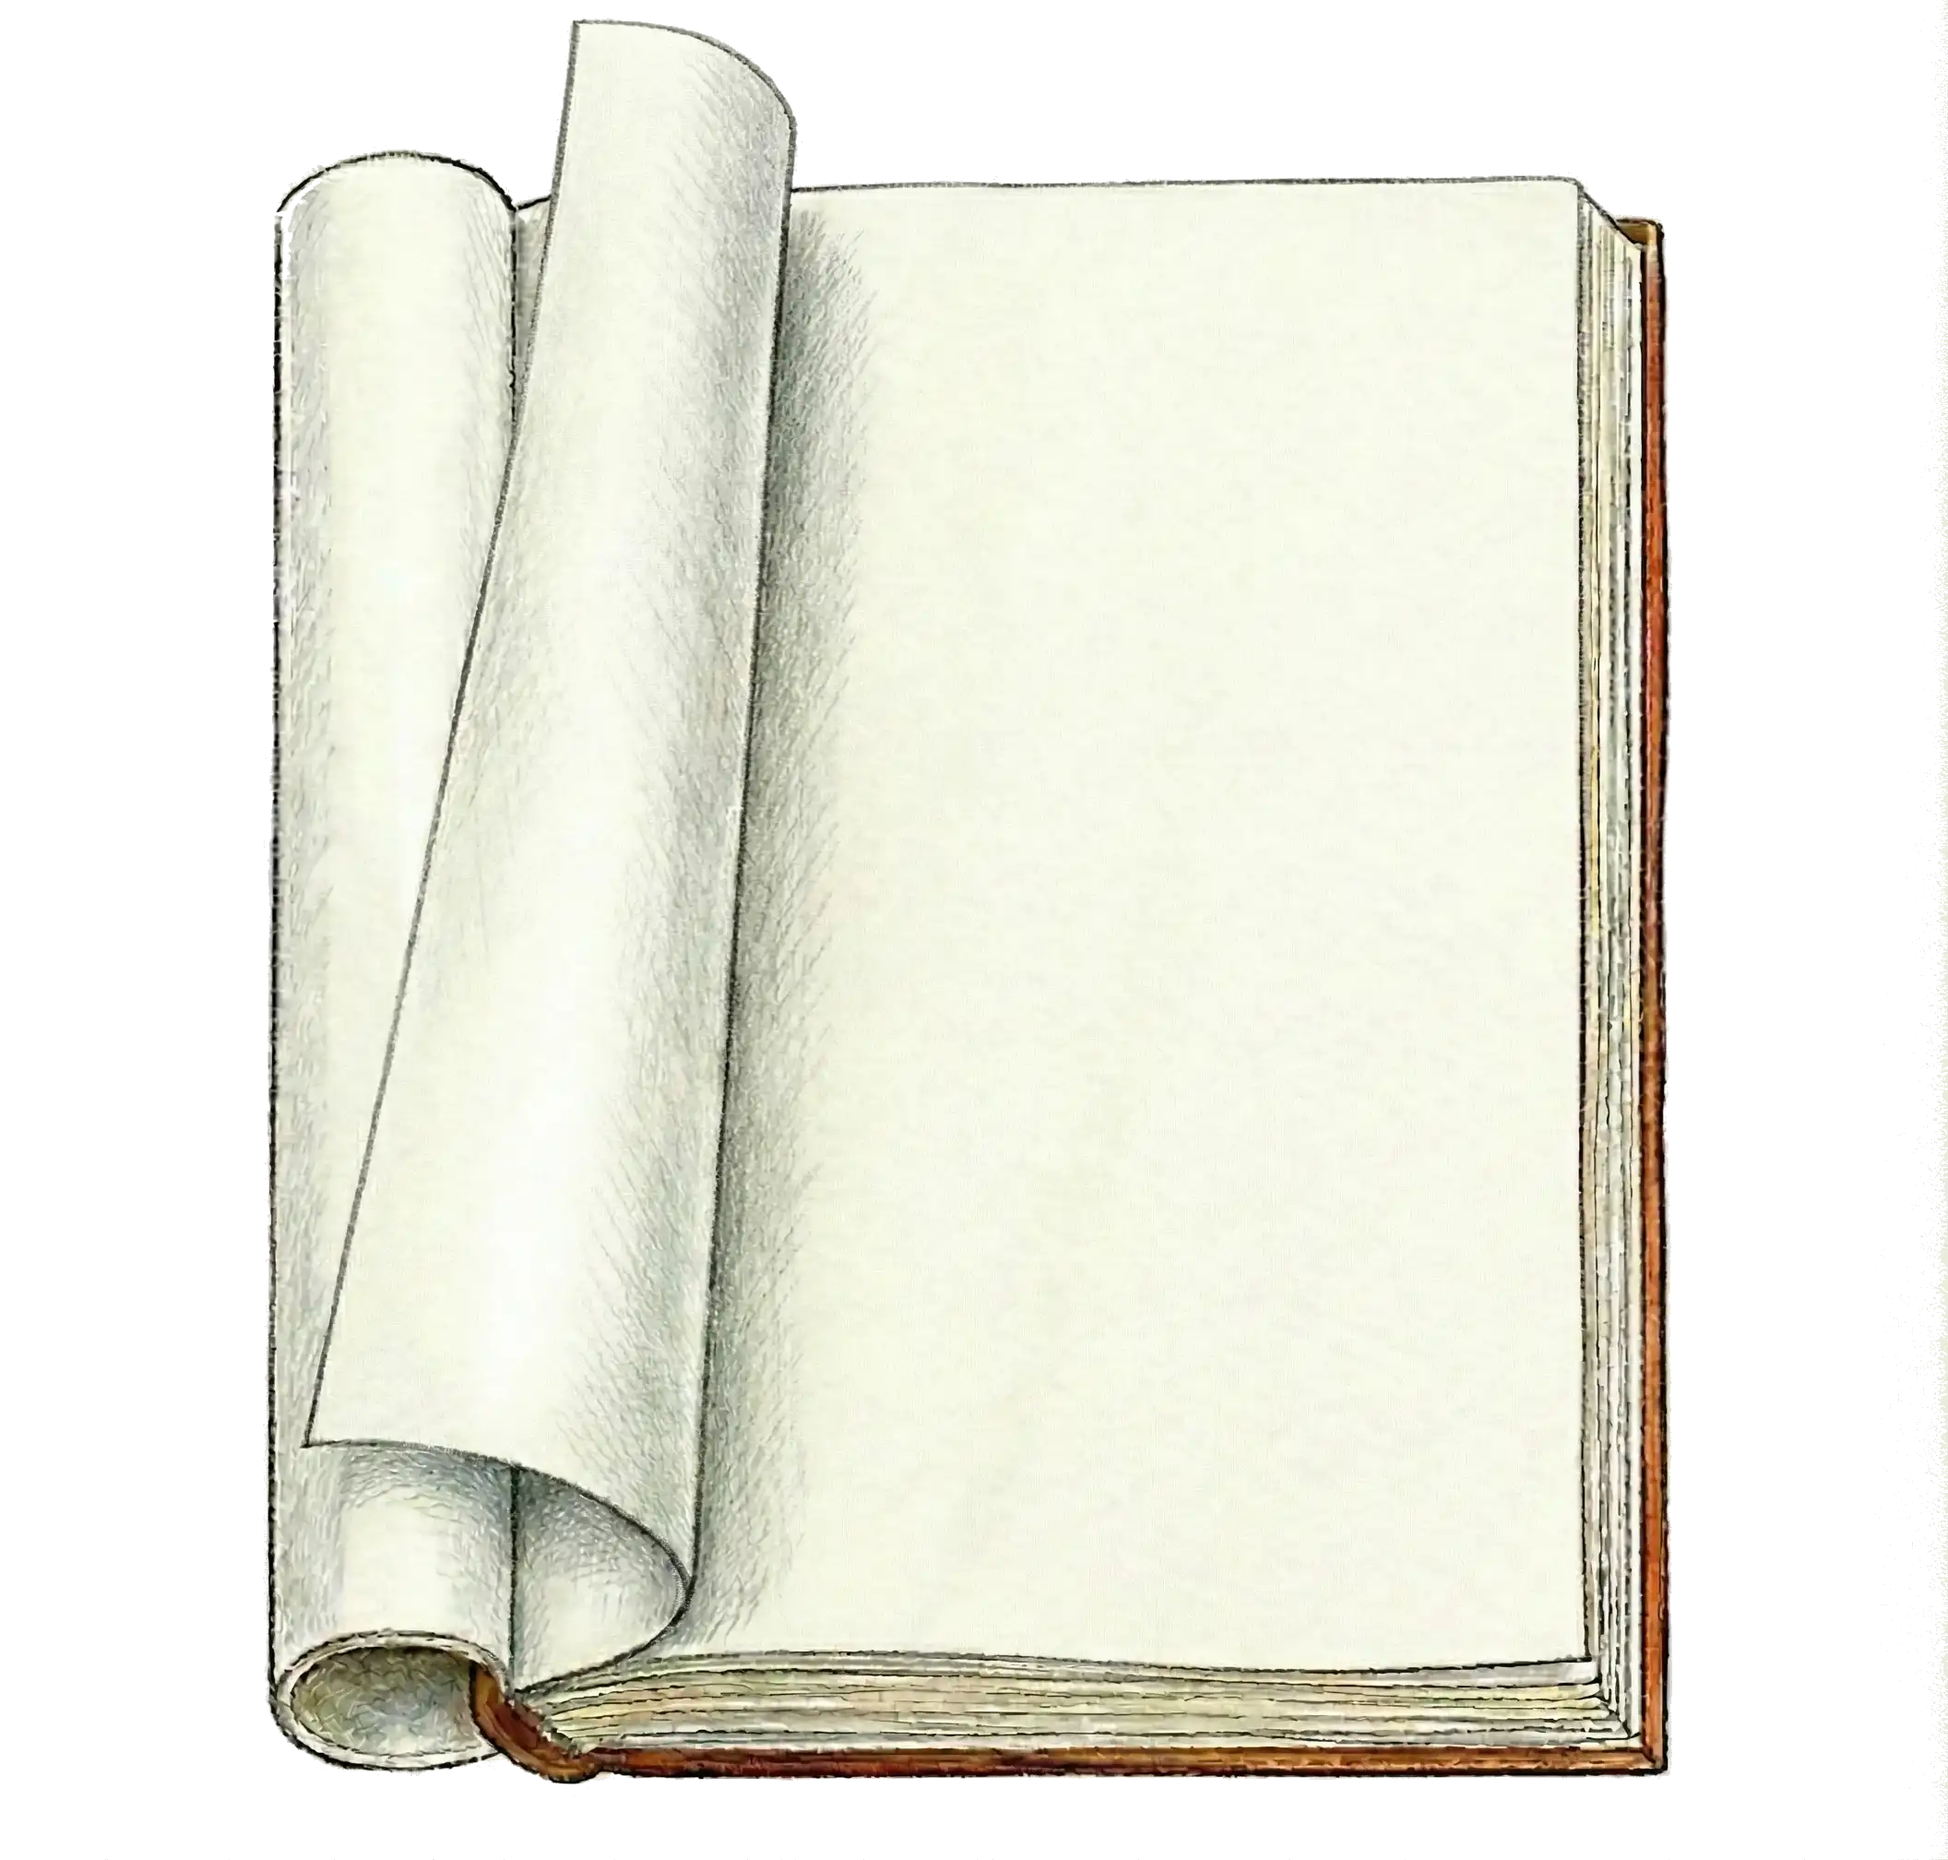
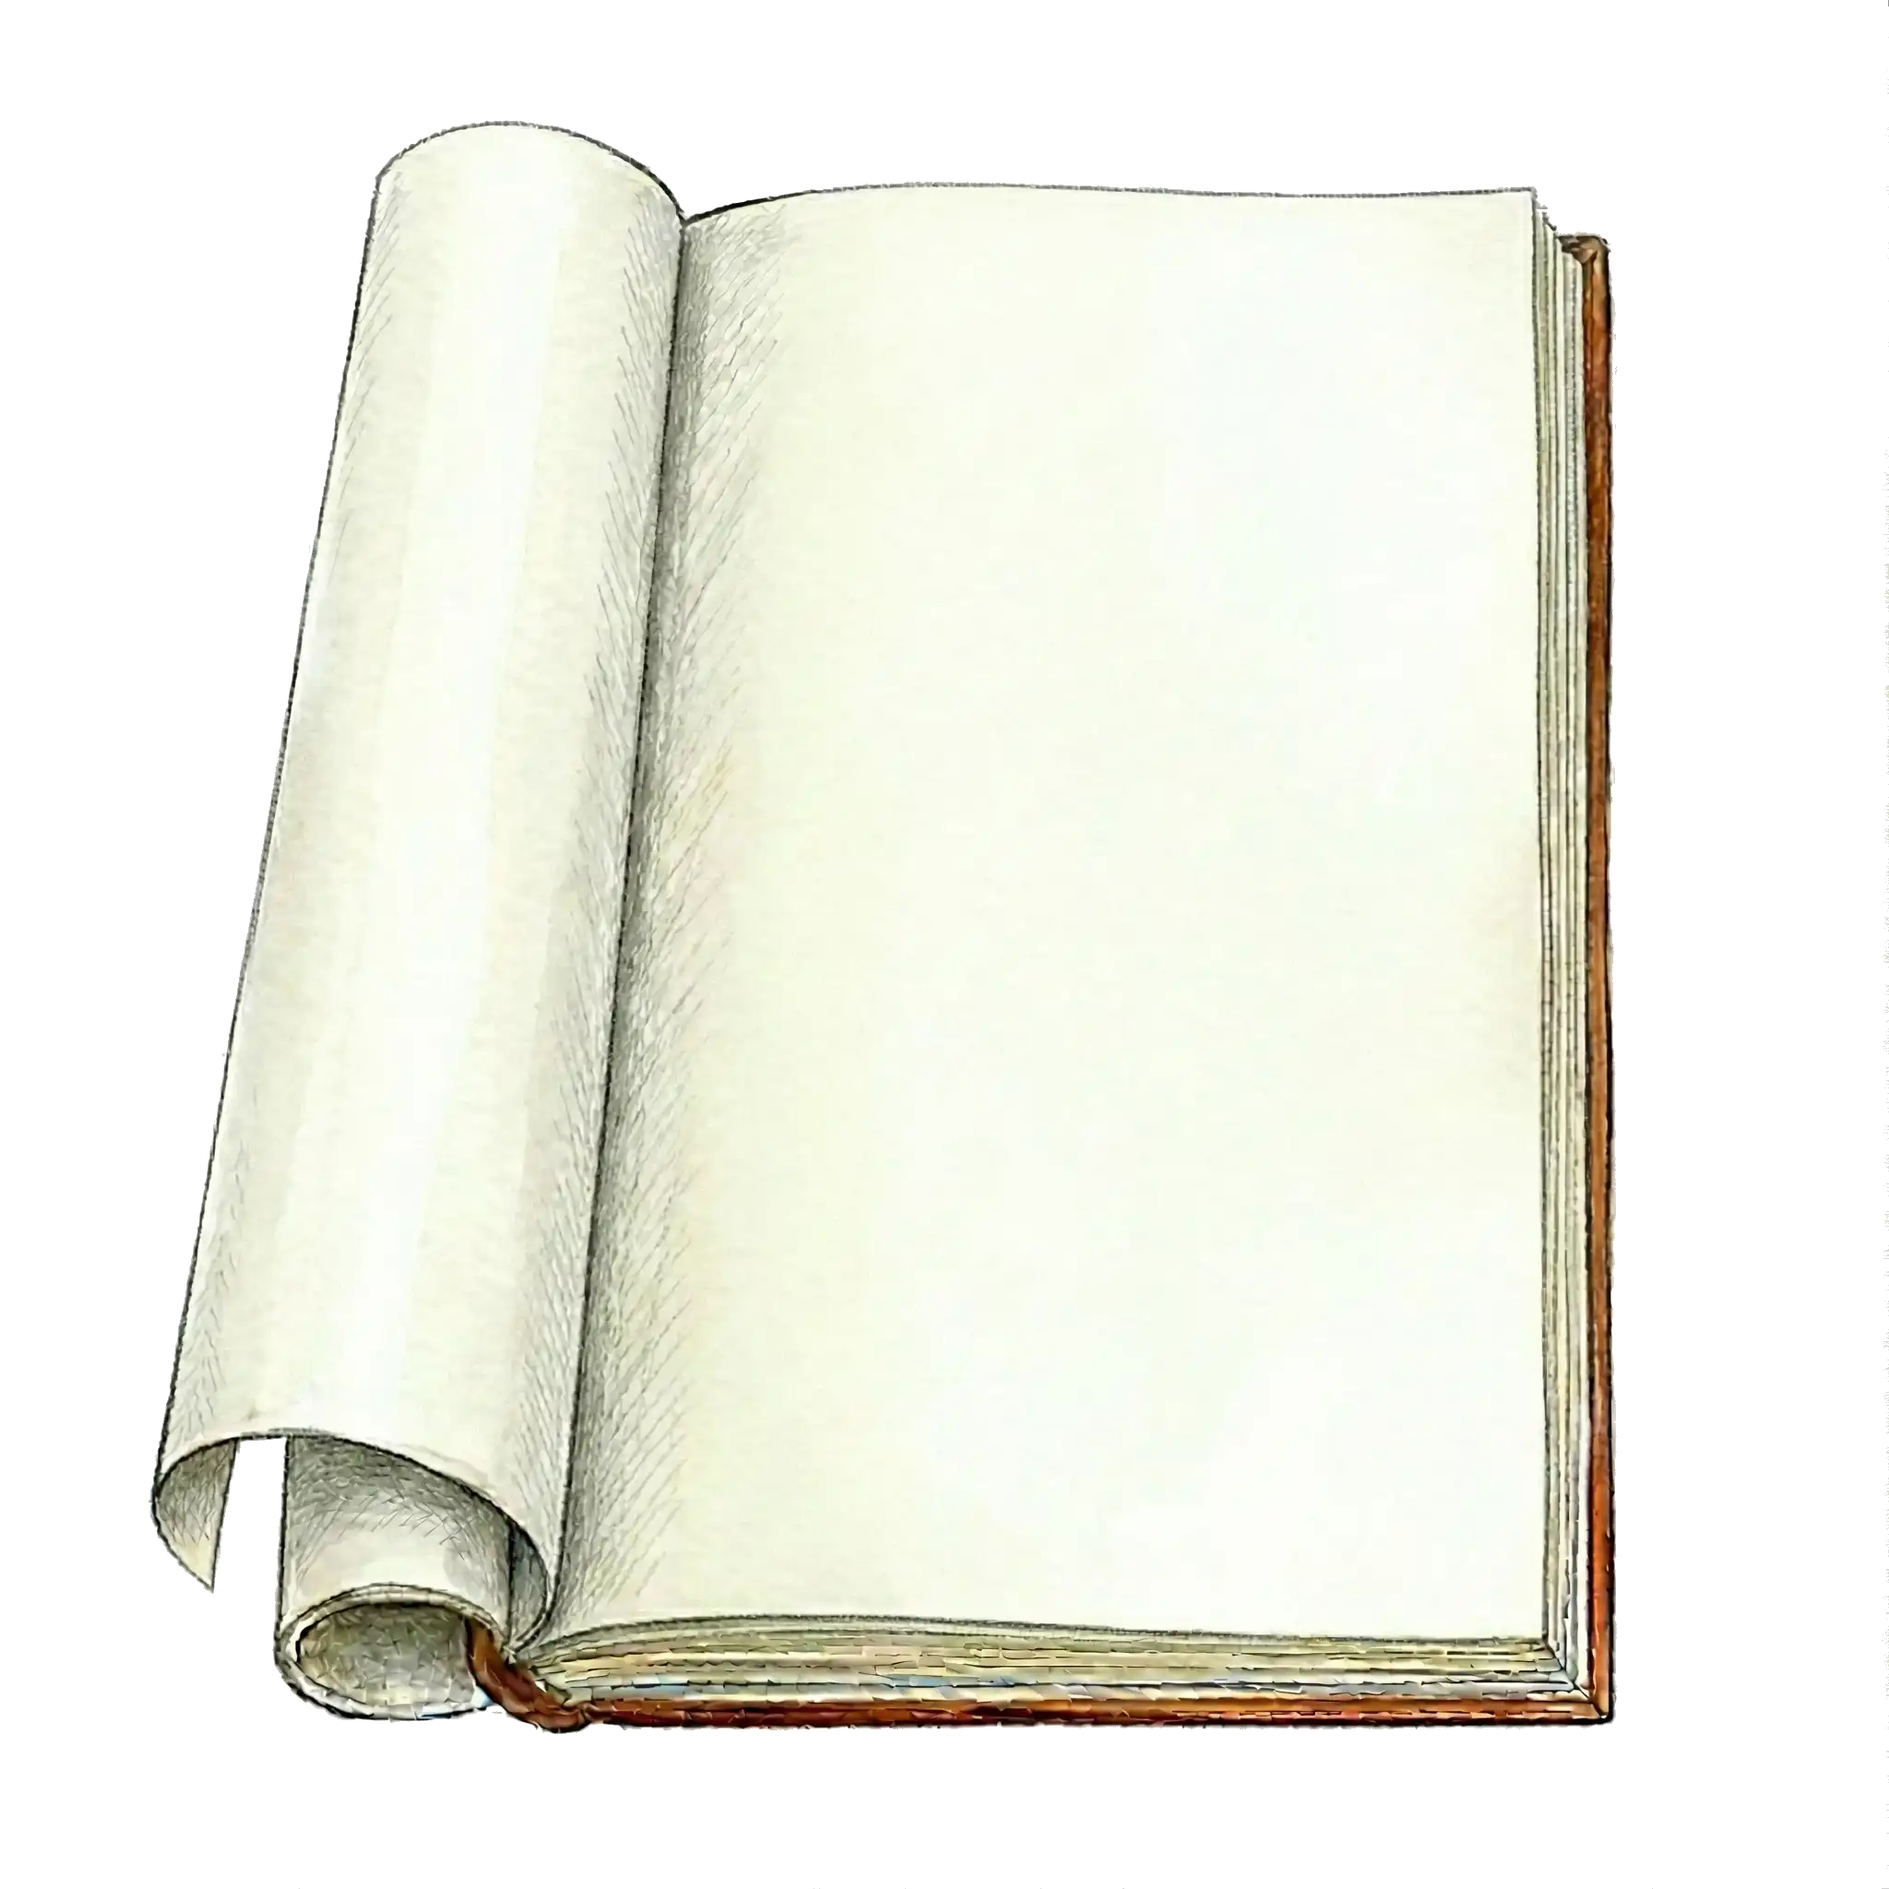
picture optimize

Changed region(s): [[0.0625, 0.0, 0.875, 0.9688], [0.4688, 0.0938, 0.5312, 0.125]]

diff --git a/src/pages/HomePage.jsx b/src/pages/HomePage.jsx
@@ -85,15 +85,15 @@ const HomePage = () => {
   const getCurrentContent = () => contents[currentContentIndex] || null
 
   const shouldShowContent = () => {
-    // 允许在 OPENING 的最后阶段（frame >= 3）就开始显示内容
-    return (appState === APP_STATES.BOOK || appState === APP_STATES.LOADING || appState === APP_STATES.OPENING) && frame >= 3
+    // 在 frame 4 时显示内容，此时旋转已归零
+    return (appState === APP_STATES.BOOK || appState === APP_STATES.LOADING || appState === APP_STATES.OPENING) && frame >= 4
   }
 
   const getRotateZ = () => {
     // 翻页动画不需要 Z 轴旋转（开书动画的 Z 轴逻辑会干扰翻页）
     if (appState === APP_STATES.SWITCHING) return 0
     if (frame === 4) return 0
-    return (frame / 3) * 20
+    return (frame / 3) * 15
   }
 
   // ============ 事件处理器 - 状态转换 ============
@@ -234,11 +234,15 @@ const HomePage = () => {
   const handleBookMouseEnter = () => {
     if (appState === APP_STATES.INITIAL) {
       setIsBookHovered(true)
+      setFrame(1)
     }
   }
 
   const handleBookMouseLeave = () => {
     setIsBookHovered(false)
+    if (appState === APP_STATES.INITIAL) {
+      setFrame(0)
+    }
   }
 
   // ============ Effects - 动画系统 ============
@@ -317,21 +321,34 @@ const HomePage = () => {
   useEffect(() => {
     if (appState !== APP_STATES.SWITCHING) return
 
-    const frameInterval = 120 // Slowed down from 66 to 120 for visibility
-    const totalFrames = 4 // 0, 1, 2, 3
-    let currentFlipIndex = 0
+    const frameInterval = 100 // Speed updated to 80ms by user request
+    const totalFrames = 5 // 0, 1, 2, 3, 4
+
+    // Initial frame depends on direction
+    // If next: start at 0, go to 4
+    // If prev: start at 4, go to 0
+    let currentFlipIndex = switchDirection === 'next' ? 0 : totalFrames - 1
+
+    // Set initial frame immediately
+    setFrame(currentFlipIndex)
 
     const timer = setInterval(() => {
-      currentFlipIndex++
-
-      // Update visual state!
-      if (currentFlipIndex < totalFrames) {
-        setFrame(currentFlipIndex)
+      if (switchDirection === 'next') {
+        currentFlipIndex++
+      } else {
+        currentFlipIndex--
       }
 
-      if (currentFlipIndex >= totalFrames) {
+      // Check bounds
+      const isFinished = switchDirection === 'next'
+        ? currentFlipIndex >= totalFrames
+        : currentFlipIndex < 0
+
+      if (isFinished) {
         clearInterval(timer)
         handleSwitchingComplete()
+      } else {
+        setFrame(currentFlipIndex)
       }
     }, frameInterval)
 
@@ -458,90 +475,84 @@ const HomePage = () => {
           className="table-image"
         />
 
-        {/* 书籍容器 - 在 CONTENT 状态下隐藏 */}
-        {appState !== APP_STATES.CONTENT && (
-          <div className="book-anchor" ref={anchorRef}>
+        {/* 书籍容器 - 始终渲染，但在 CONTENT 状态下可能被 overlay 遮挡 */}
+        <div className="book-anchor" ref={anchorRef}>
+          <div
+            className={getBookContainerClasses()}
+            onClick={handleClickBook}
+            onMouseEnter={handleBookMouseEnter}
+            onMouseLeave={handleBookMouseLeave}
+            style={{
+              transform: `translate(${layoutTransform.x}px, ${layoutTransform.y}px) scale(${layoutTransform.scale})`
+            }}
+          >
             <div
-              className={getBookContainerClasses()}
-              onClick={handleClickBook}
-              onMouseEnter={handleBookMouseEnter}
-              onMouseLeave={handleBookMouseLeave}
+              className="book-rotator"
               style={{
-                transform: `translate(${layoutTransform.x}px, ${layoutTransform.y}px) scale(${layoutTransform.scale})`
+                transform: `perspective(1000px) rotateY(${transform.rotateY}deg) rotateX(${transform.rotateX}deg) rotateZ(${getRotateZ()}deg)`,
+                transition: frame >= 3 ? 'none' : 'transform 0.1s ease-out'
               }}
             >
-              <div
-                className="book-rotator"
-                style={{
-                  transform: `perspective(1000px) rotateY(${transform.rotateY}deg) rotateX(${transform.rotateX}deg) rotateZ(${getRotateZ()}deg)`,
-                  transition: frame === 4 ? 'none' : 'transform 0.1s ease-out'
-                }}
-              >
-                {/* 书籍打开/切换动画帧 */}
-                {[0, 1, 2, 3, 4].map((index) => (
-                  <img
-                    key={`book-${index}`}
-                    src={`/book-${index}.webp`}
-                    alt={`Book Frame ${index}`}
-                    className={`book-image-layer ${index === frame && appState !== APP_STATES.SWITCHING ? 'visible' : ''}`}
-                  />
-                ))}
-
-                {/* 翻页动画帧（SWITCHING 状态） - 预渲染所有帧以避免闪烁 */}
-                {[0, 1, 2, 3, 4].map((index) => (
-                  <img
-                    key={`fanye-${index}`}
-                    src={`/fanye-${index}.webp`}
-                    alt={`Flip Frame ${index}`}
-                    className={`flip-animation-layer ${appState === APP_STATES.SWITCHING && frame === index ? 'visible' : ''}`}
-                  />
-                ))}
-
-                {/* 书籍背景（内容打开时显示） */}
-                <div
-                  className={`book-content-bg ${shouldShowContent() ? 'visible' : ''}`}
+              {/* 书籍打开/切换动画帧 */}
+              {[0, 1, 2, 3, 4].map((index) => (
+                <img
+                  key={`book-${index}`}
+                  src={`/book-${index}.webp`}
+                  alt={`Book Frame ${index}`}
+                  className={`book-image-layer ${index === frame && appState !== APP_STATES.SWITCHING ? 'visible' : ''}`}
                 />
+              ))}
 
-                {/* 当前内容的封面 */}
-                {getCurrentContent() && (
-                  <img
-                    src={getCurrentContent().coverImage}
-                    alt="Book Cover"
-                    className={`book-content-image ${shouldShowContent() ? 'visible' : ''}`}
-                    onClick={handleViewContent}
-                    style={{ cursor: 'pointer' }}
-                  />
-                )}
-              </div>
+              {/* 翻页动画帧（SWITCHING 状态） - 预渲染所有帧以避免闪烁 */}
+              {[0, 1, 2, 3, 4].map((index) => (
+                <img
+                  key={`fanye-${index}`}
+                  src={`/fanye-${index}.webp`}
+                  alt={`Flip Frame ${index}`}
+                  className={`flip-animation-layer ${appState === APP_STATES.SWITCHING && frame === index ? 'visible' : ''}`}
+                />
+              ))}
 
-              {/* 只在 BOOK 状态显示导航按钮 */}
-              {appState === APP_STATES.BOOK && contents.length > 1 && (
-                <div className="navigation-buttons">
-                  <button
-                    className="nav-button nav-prev"
-                    onClick={(e) => {
-                      e.stopPropagation()
-                      handleSwitchContent('prev')
-                    }}
-                    aria-label="Previous article"
-                  >
-                    ◀
-                  </button>
-                  <button
-                    className="nav-button nav-next transparent-btn"
-                    onClick={(e) => {
-                      e.stopPropagation()
-                      handleSwitchContent('next')
-                    }}
-                    aria-label="Next article"
-                  >
-                    ▶
-                  </button>
-                </div>
+              {/* 书籍背景（内容打开时显示） */}
+              <div
+                className={`book-content-bg ${shouldShowContent() ? 'visible' : ''}`}
+              />
+
+              {/* 当前内容的封面 */}
+              {getCurrentContent() && (
+                <img
+                  src={getCurrentContent().coverImage}
+                  alt="Book Cover"
+                  className={`book-content-image ${shouldShowContent() ? 'visible' : ''}`}
+                  onClick={handleViewContent}
+                  style={{ cursor: 'pointer' }}
+                />
               )}
             </div>
+
+            {/* 只在 BOOK 状态显示导航按钮 */}
+            {appState === APP_STATES.BOOK && contents.length > 1 && (
+              <div className="navigation-buttons">
+                <button
+                  className="nav-button nav-prev transparent-btn"
+                  onClick={(e) => {
+                    e.stopPropagation()
+                    handleSwitchContent('prev')
+                  }}
+                  aria-label="Previous article"
+                />
+                <button
+                  className="nav-button nav-next transparent-btn"
+                  onClick={(e) => {
+                    e.stopPropagation()
+                    handleSwitchContent('next')
+                  }}
+                  aria-label="Next article"
+                />
+              </div>
+            )}
           </div>
-        )}
+        </div>
       </div>
 
       {/* 加载指示器 */}

diff --git a/src/pages/HomePage.css b/src/pages/HomePage.css
@@ -66,6 +66,8 @@
   height: auto;
   object-fit: contain;
   opacity: 0;
+  pointer-events: none;
+  /* Prevent blocking clicks on book-content-image */
   /* Removed transition to avoid ghosting artifacts between frames */
 }
 
@@ -196,7 +198,8 @@
 
 .book-container.breathing:hover {
   animation-duration: 1.5s;
-  filter: drop-shadow(0 0 40px rgba(255, 200, 87, 0.8));
+  filter: drop-shadow(0 0 40px rgba(255, 215, 0, 0.9));
+  /* Stronger golden highlight */
   transform: scale(1.05);
 }
 
@@ -228,7 +231,8 @@
 /* 导航按钮 */
 .navigation-buttons {
   position: absolute;
-  bottom: -60px;
+  bottom: -24px;
+  /* Moved up to be visible */
   left: 50%;
   transform: translateX(-50%);
   display: flex;
@@ -237,44 +241,46 @@
 }
 
 .nav-button {
-  width: 50px;
-  height: 50px;
+  width: 60px;
+  height: 60px;
   border-radius: 50%;
-  background: rgba(255, 255, 255, 0.95);
-  border: 2px solid #333;
   cursor: pointer;
-  display: flex;
-  align-items: center;
-  justify-content: center;
-  font-size: 20px;
-  font-weight: bold;
-  color: #333;
-  transition: all 0.2s ease;
-  box-shadow: 0 4px 12px rgba(0, 0, 0, 0.15);
-}
-
-.nav-button:hover {
-  transform: scale(1.1);
-  background: white;
-  box-shadow: 0 6px 16px rgba(0, 0, 0, 0.2);
-}
-
-.nav-button:active {
-  transform: scale(0.95);
-}
-
-.nav-button.transparent-btn {
-  background: transparent;
-  border: 2px solid rgba(255, 255, 255, 0.3);
-  color: rgba(255, 255, 255, 0.8);
+  display: block;
+  border: none;
+  background-color: transparent;
+  background-image: url('/arrow.webp');
+  background-size: 200% 100%;
+  /* Sprite: Left | Right */
+  background-repeat: no-repeat;
+  transition: transform 0.2s cubic-bezier(0.25, 0.8, 0.25, 1), filter 0.2s;
   box-shadow: none;
 }
 
+/* Specific sprite positions */
+.nav-prev {
+  background-position: 0% 0;
+}
+
+.nav-next {
+  background-position: 100% 0;
+}
+
+.nav-button.transparent-btn {
+  background-color: transparent;
+  border: none;
+  box-shadow: none;
+  backdrop-filter: none;
+  -webkit-backdrop-filter: none;
+}
+
 .nav-button.transparent-btn:hover {
-  background: rgba(255, 255, 255, 0.1);
-  border-color: rgba(255, 255, 255, 0.8);
-  color: white;
   transform: scale(1.1);
+  filter: drop-shadow(0 0 5px rgba(255, 255, 255, 0.5));
+  background-color: transparent;
+}
+
+.nav-button.transparent-btn:active {
+  transform: scale(0.95);
 }
 
 /* 加载覆盖层 */
